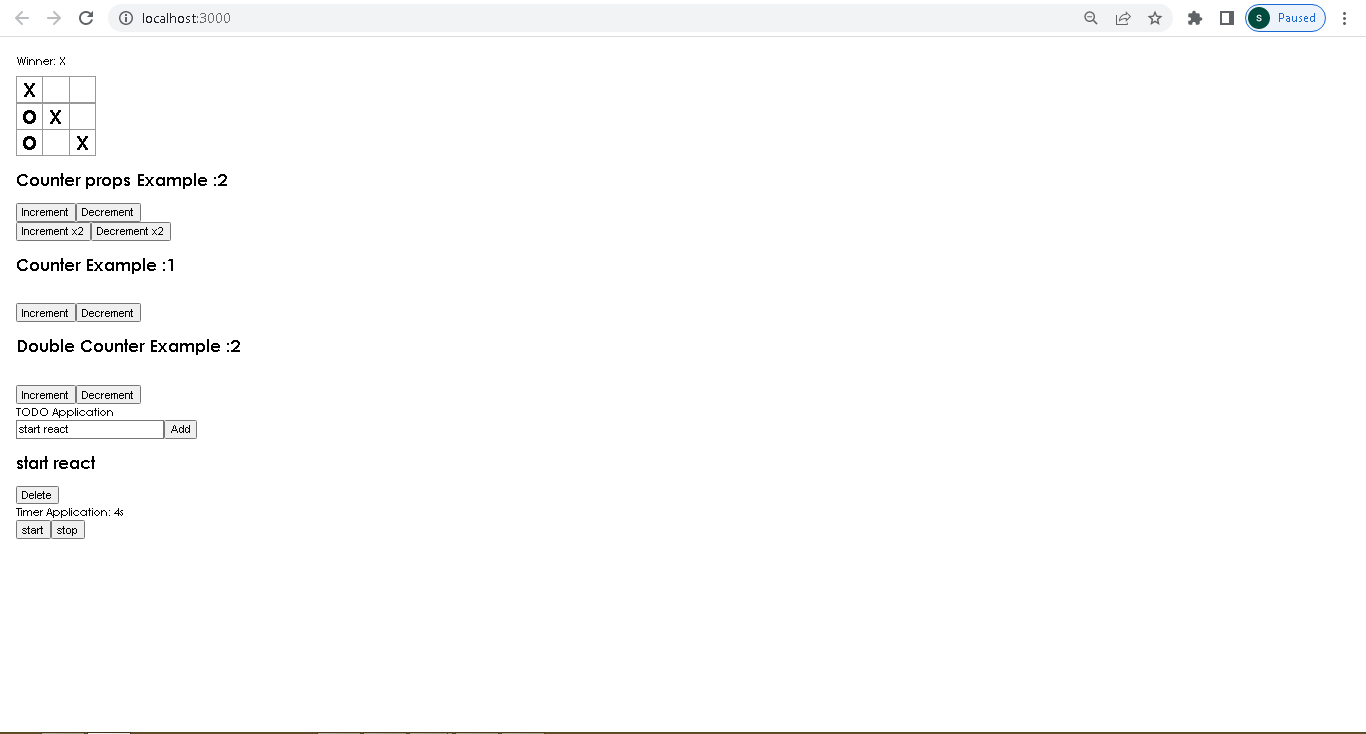
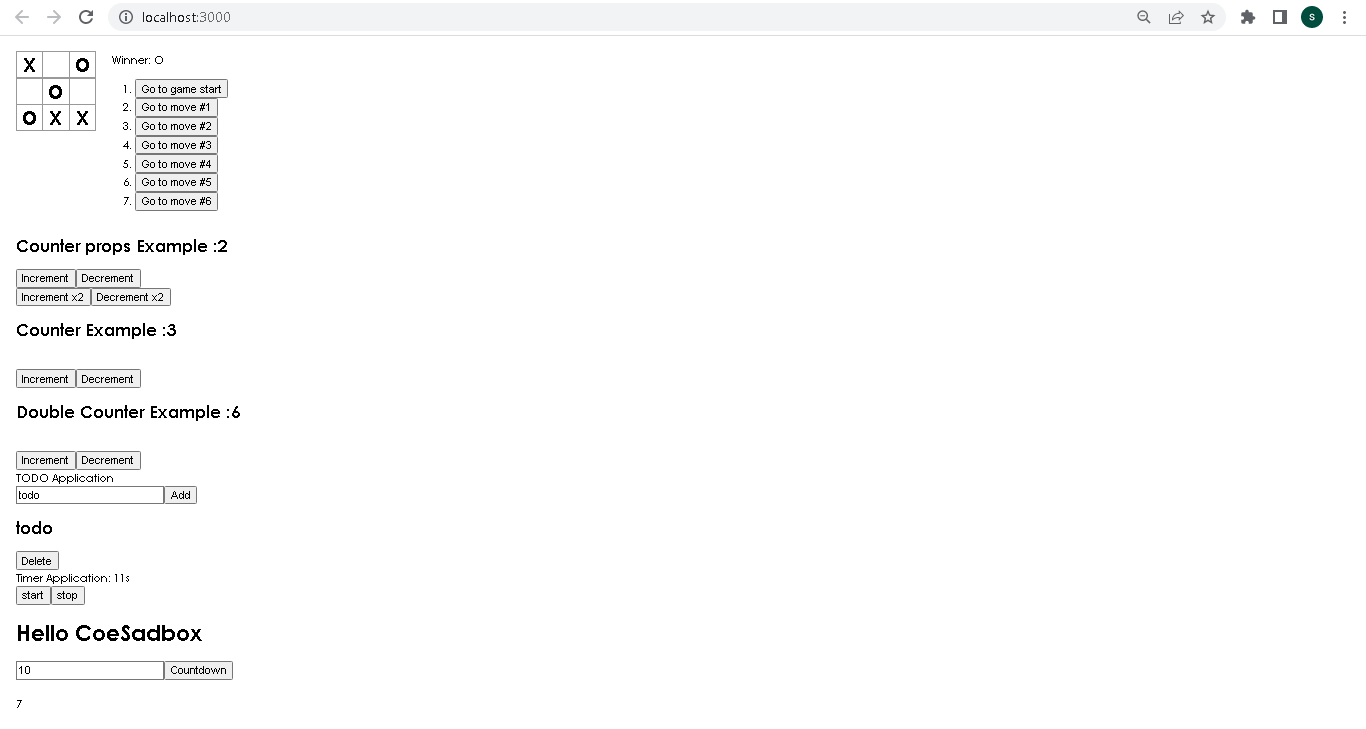
6th commit

diff --git a/README.md b/README.md
@@ -1,4 +1,4 @@
 ![](Capture.PNG)
 
 This is collections of small react application, which covers tic tac toe,
-counter,Timer,Todo which uses useState,useRef,useEffect,components
+counter,Timer,Todo,ReverseCounter which uses useState,useRef,useEffect,components
